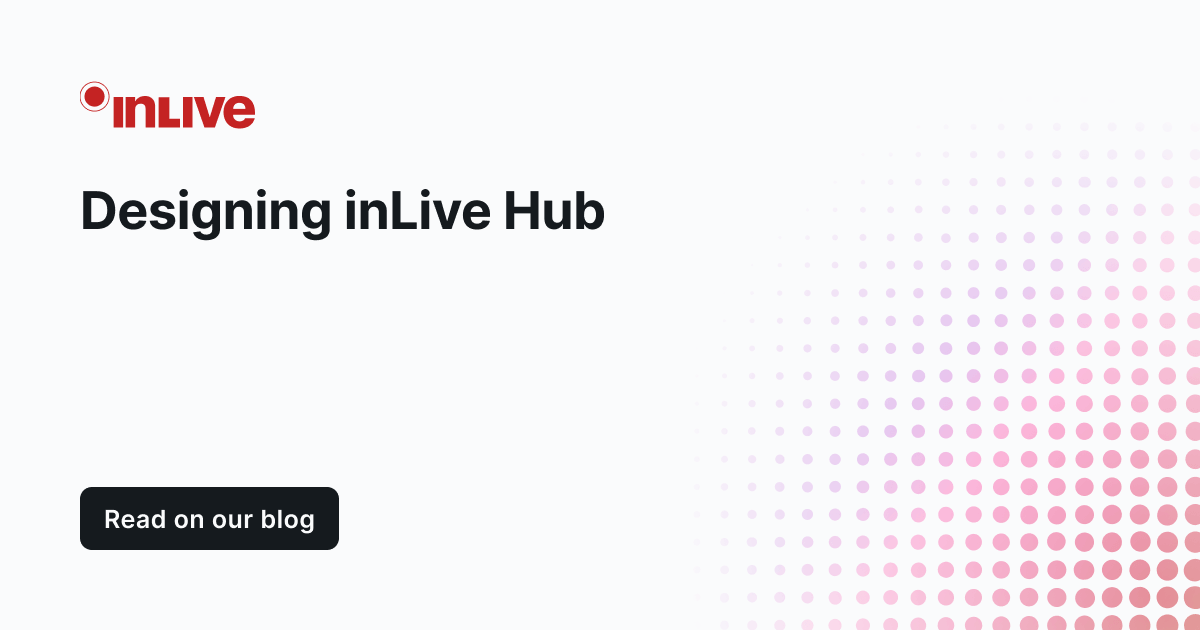
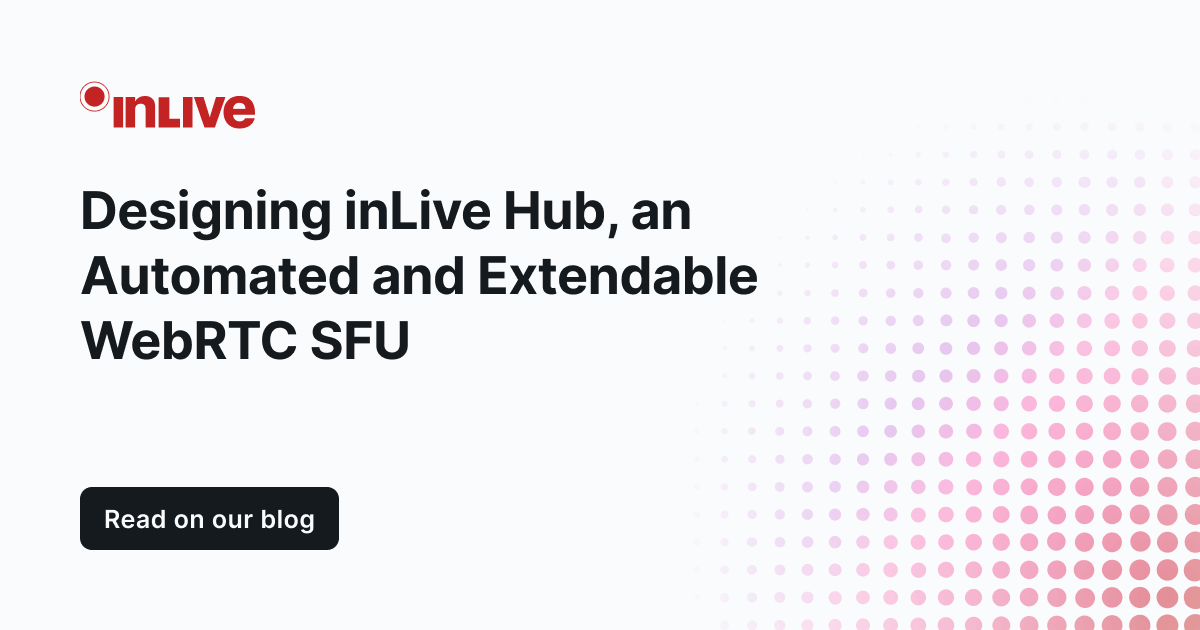
feat: add more og images (#216)
* fix: replace og image with newer version

* feat: add og image for the pages

* fix: make home and pricing using general og image

* feat: add og images for every displayed doc pages

diff --git a/content/docs/learn/playing-video/index.md b/content/docs/learn/playing-video/index.md
@@ -1,9 +1,10 @@
 ---
 date: 2022-06-07
 lastmod: 2022-06-07
-name: Playing Video with HLS and MPEG-DASH 
-title: Playing Video with HLS and MPEG-DASH 
+name: Playing Video with HLS and MPEG-DASH
+title: Playing Video with HLS and MPEG-DASH
 description: Inlive supports HLS and MPEG-DASH streaming protocol formats which offers 3 types adaptive bitrate qualities for playing video through a video player.
+ogimage: /images/docs/og-image.png
 slug: playing-video
 weight: 5003
 menu:
@@ -29,20 +30,20 @@ Therefore, which one is better for video players?
 Of course, both have good and bad points. Let’s break through it one by one.
 
 ### 1. Compatibility through devices
-HLS supports a wide range of devices, but MPEG-DASH is not supported only at iOS Safari browser which is a downside because it’s important for iOS Safari users. This MPEG-DASH compatibility problem because the [Media Source API](https://developer.mozilla.org/en-US/docs/Web/API/Media_Source_Extensions_API) is only enabled on Safari desktop and iPad, not in iOS. 
+HLS supports a wide range of devices, but MPEG-DASH is not supported only at iOS Safari browser which is a downside because it’s important for iOS Safari users. This MPEG-DASH compatibility problem because the [Media Source API](https://developer.mozilla.org/en-US/docs/Web/API/Media_Source_Extensions_API) is only enabled on Safari desktop and iPad, not in iOS.
 
 ### 2. Latency
 Although HLS supports widest compatibility for streaming, it is known to create a high latency stream previously. It is because HLS file (.m3u8) segments are usually much longer so each segment needs to be encoded at different bitrates. That is why it is commonly said that HLS prioritizes quality over low latency before Apple announced that HLS finally can support low latency streaming ([LL-HLS](https://developer.apple.com/documentation/http_live_streaming/enabling_low-latency_http_live_streaming_hls)) in 2019. Different from HLS, MPEG-DASH typically has lower latency as the file segments are much smaller so no need to encode them at different bitrates.
 
-In spite of HLS providing low latency streaming right now, currently our Inlive doesn’t support LL-HLS because we are using FFmpeg for encoding which can't be done through FFmpeg. Our Inlive’s HLS format is still using community version (.m3u8) instead of the Apple version (LL-HLS), while our Inlive’s MPEG-DASH format is already using [low latency DASH](https://dashif.org/news/low-latency-dash/), so the latency can reach up to 1-3 seconds only. Therefore, to achieve lower latency, you should always prioritize using Inlive MPEG-DASH format instead of HLS format. As mentioned earlier, since our Inlive API supports both formats, it is recommended to do capability testing (for example, using [window.MediaSource](https://github.com/shaka-project/shaka-player/issues/3037#issuecomment-742701187)) whether the Media Source is enabled, so it can support MPEG-DASH format on your video player. If Media Source API is disabled, then you can use the HLS format for your video player. 
+In spite of HLS providing low latency streaming right now, currently our Inlive doesn’t support LL-HLS because we are using FFmpeg for encoding which can't be done through FFmpeg. Our Inlive’s HLS format is still using community version (.m3u8) instead of the Apple version (LL-HLS), while our Inlive’s MPEG-DASH format is already using [low latency DASH](https://dashif.org/news/low-latency-dash/), so the latency can reach up to 1-3 seconds only. Therefore, to achieve lower latency, you should always prioritize using Inlive MPEG-DASH format instead of HLS format. As mentioned earlier, since our Inlive API supports both formats, it is recommended to do capability testing (for example, using [window.MediaSource](https://github.com/shaka-project/shaka-player/issues/3037#issuecomment-742701187)) whether the Media Source is enabled, so it can support MPEG-DASH format on your video player. If Media Source API is disabled, then you can use the HLS format for your video player.
 
 ### 3. Adaptive Video
 Both HLS and MPEG-DASH support adaptive bitrate feature so users can receive the best quality video based on what their internet connection can handle. Also, both HLS and MPEG-DASH support [HDR](https://www.haivision.com/blog/all/what-is-hdr-how-you-can-contribute-live-broadcast-content-in-hdr/) (High Dynamic Range) which deliver a wider color gamut and better tonal rendition. Currently, our Inlive’s MPEG-DASH and HLS are using same video codec which is H264 because it is the most supported codec on all platforms.
 
-As we know, [video bitrate](https://golightstream.com/what-is-video-bitrate/) affects the video quality. For now, Inlive provides adaptive video with 3 different qualities: 
+As we know, [video bitrate](https://golightstream.com/what-is-video-bitrate/) affects the video quality. For now, Inlive provides adaptive video with 3 different qualities:
 - 360 p with 800kb bitrate
 - 480p with 1350kb bitrate
-- 720p with 2500kb bitrate 
+- 720p with 2500kb bitrate
 
 With these 3 qualities, your video player can change the bitrate according to the network and device so the users don’t have to face buffering time while watching live streaming. To achieve adaptive bitrate qualities that are already supported on Inlive, you can use a video player that supports adaptive bitrate automation. In [our tutorial](/docs/tutorial/tutorial-app-with-webrtc/#6-get-the-video), we’re using Shaka Player because it handles video quality adjustment automatically. To learn more about utilizing these multiple bitrates and maximize its capability, you could read this [article](https://youtube-eng.googleblog.com/2018/04/making-high-quality-video-efficient.html) and also check out this [one](https://bloggeek.me/tweaking-webrtc-video-quality-unpacking-bitrate-resolution-and-frame-rates/) on how to tune webRTC video quality.
 

diff --git a/content/docs/learn/video-input/index.md b/content/docs/learn/video-input/index.md
@@ -4,6 +4,7 @@ lastmod: 2022-03-11
 name: Video Input
 title: Video Input
 description: Inlive supports 2 ways to sending the video source input to our encoder. You can use either WebRTC or RTMP.
+ogimage: /images/docs/og-image.png
 slug: video-input
 weight: 5002
 menu:
@@ -20,15 +21,15 @@ Inlive is support 2 ways to send the video source input to our encoder. You can 
 ## WebRTC
 WebRTC is a web standard protocol for video communication that is used by Google Meet. It's a UDP-based network transport by default which is known to reduce latency, but we still can make it work through TCP if needed. The better latency is the main reason why we focus on WebRTC input first instead of the RTMP that is already standard input in the live streaming app. Another reason is WebRTC can work everywhere including in the browser, something that RTMP can't do. With this, we can build a live streaming broadcaster app like OBS but on the web. No need to install anything.
 
-So if you want to build a live streaming app that can capture the camera on all platforms, not only in the mobile apps but also on the web, then WebRTC is your choice. Check out [our tutorial](/docs/tutorial/tutorial-app-with-webrtc/) on how to capture a camera on the web and send it as a video stream input. For mobiles, there are some tutorials and examples that you can use as well. 
+So if you want to build a live streaming app that can capture the camera on all platforms, not only in the mobile apps but also on the web, then WebRTC is your choice. Check out [our tutorial](/docs/tutorial/tutorial-app-with-webrtc/) on how to capture a camera on the web and send it as a video stream input. For mobiles, there are some tutorials and examples that you can use as well.
 
 
 ## RTMP
 RTMP is the most popular standard protocol for live streaming. It was used by Adobe Flash to stream the video from the server to a Flash player. But now RTMP is mostly known as a video input standard for YouTube, Twitch, and other live stream services. The main issue with RTMP is it's not supporting the web. So we can't build a broadcaster client on the web and use it as video stream input like WebRTC can do. And compared with WebRTC, RTMP is using TCP as their network transport. It's more reliable because TCP can guarantee all the network packets will be received by the server.
 
 ## Conclusion
-WebRTC and RTMP can be used as a video input protocol for our live stream, but which one you should use? It depends. The main difference between WebRTC and RTMP is the network transport protocol. WebRTC has better latency but can't guarantee reliability, which means you might have better latency but you probably will see some glitch in the video when the broadcaster host internet network is not that good. 
+WebRTC and RTMP can be used as a video input protocol for our live stream, but which one you should use? It depends. The main difference between WebRTC and RTMP is the network transport protocol. WebRTC has better latency but can't guarantee reliability, which means you might have better latency but you probably will see some glitch in the video when the broadcaster host internet network is not that good.
 
-If you're hosting a live stream that doesn't need interactivity, like a live concert, sports event, or any one-way broadcasting where the quality of the video is important and that broadcast usually can be seen on TV as well, then you probably want to use RTMP because it will have a better video quality of the live stream. But if you're hosting an interactive live stream, like a live shopping, trivia quiz, online bidding, or any live stream where the low latency is a must, then WebRTC will be a good option. 
+If you're hosting a live stream that doesn't need interactivity, like a live concert, sports event, or any one-way broadcasting where the quality of the video is important and that broadcast usually can be seen on TV as well, then you probably want to use RTMP because it will have a better video quality of the live stream. But if you're hosting an interactive live stream, like a live shopping, trivia quiz, online bidding, or any live stream where the low latency is a must, then WebRTC will be a good option.
 
 Another consideration is the platform support, if you're thinking to have a broadcaster feature on all platforms including the web, then WebRTC is the only way. RTMP can't be used on a browser, only on native mobile platforms like Android and iOS. Let us know if you still need more insights on which video input to choose.

diff --git a/content/docs/tutorial/app-with-whip/index.md b/content/docs/tutorial/app-with-whip/index.md
@@ -4,6 +4,7 @@ lastmod: 2023-05-26
 name: Tutorial with WHIP
 title: Tutorial building a live stream app with WHIP standard
 description: This tutorial will show you how to build a live video stream web app using WHIP standard.
+ogimage: /images/docs/og-image.png
 slug: tutorial-app-with-whip
 weight: 4003
 menu:
@@ -31,7 +32,7 @@ Before starting, you need to prepare the following things:
    * [gst-plugins-rs](https://gitlab.freedesktop.org/gstreamer/gst-plugins-rs) (Gstreamer plugins, written in Rust)
    * [Larix Broadcaster](https://softvelum.com/larix/)  (free apps for iOS and Android with WebRTC based on Pion, SDK available)
 
-    For this tutorial we will be using [medooze/whip-whep-js](https://github.com/medooze/whip-whep-js) 
+    For this tutorial we will be using [medooze/whip-whep-js](https://github.com/medooze/whip-whep-js)
 3. Understand the flow of doing a live streaming with inLive which are:
    1. Create a live stream
    2. Prepare the live stream
@@ -76,7 +77,7 @@ Then in the `app.js` file, we will import the WHIP JS library. Put the following
 import { WHIPClient } from "./whip.js"
 ```
 
-## Get the API key from inLive Dashboard 
+## Get the API key from inLive Dashboard
 Before we start writing the JavaScript function. We need the API key that you can get from inLive Dashboard. Put the API key as global variable in `app.js`. We also put the `API_ORIGIN` variable to make it easier to change the API origin in the future. Put the following code in `app.js`:
 ````js
 const API_KEY = '<api-key-here>'
@@ -155,7 +156,7 @@ async function startStream(stream, mediaStream){
 ```
 
 ## Handle on load page and button click
-Last, we are wired everything into a load event that will be triggered when the page is loaded. The page will load the media stream from camera and microphone when page loaded, and we will go live when the button is clicked. 
+Last, we are wired everything into a load event that will be triggered when the page is loaded. The page will load the media stream from camera and microphone when page loaded, and we will go live when the button is clicked.
 
 When the button is clicked and we succesfully go live, we will get the Dash and HLS manifest. We will create a link to watch the live stream with the manifest and open it in a new tab.
 
@@ -170,7 +171,7 @@ document.addEventListener('DOMContentLoaded', async () => {
     const video = document.getElementById('video')
     video.srcObject = mediaStream
     const button = document.querySelector('button')
-    
+
     button.addEventListener('click', async () => {
         const stream = await createStream()
         await WHIP(stream, mediaStream)
@@ -189,4 +190,3 @@ Now we have everything we need. We just need to open the web app, allow the brow
 
 ## Conclusion
 We put together the example code above in our [Github repository](https://github.com/inlivedev/inlivedev.github.io/tree/main/examples/whip-webrtc-dash-hls). You can clone the repository and run the app in your local machine.
-

diff --git a/content/docs/getting-started/index.md b/content/docs/getting-started/index.md
@@ -4,6 +4,7 @@ lastmod: 2022-03-08
 name: Getting Started
 title: Getting Started
 description: To start developing with Inlive, you will need three simple steps to integrate inlive with your app.
+ogimage: /images/docs/og-image.png
 slug: getting-started
 weight: 2000
 menu:
@@ -87,7 +88,7 @@ const request = await fetch('https://api.inlive.app/v1/streams',{
 const streams = await request.json();
 ```
 
-Check [other endpoints](https://api.inlive.app/apidocs) to know the HTTP method, body, or URL parameters used to make different API requests. 
+Check [other endpoints](https://api.inlive.app/apidocs) to know the HTTP method, body, or URL parameters used to make different API requests.
 
 With our SDK, you only need to pass the application key to `InliveApp.init()` like this:
 

diff --git a/content/docs/learn/RTMP-vs-webRTC/index.md b/content/docs/learn/RTMP-vs-webRTC/index.md
@@ -4,6 +4,7 @@ lastmod: 2022-05-31
 name: Choosing RTMP vs WebRTC
 title: Choosing RTMP vs WebRTC
 description: Inlive uses WebRTC which supports video ingestion on all platforms including web, has better latency than RTMP, and can be used to build your own OBS client.
+ogimage: /images/docs/og-image.png
 slug: rtmp-vs-webrtc
 weight: 5001
 menu:

diff --git a/content/docs/tutorial/app-with-sdk/index.md b/content/docs/tutorial/app-with-sdk/index.md
@@ -4,6 +4,7 @@ lastmod: 2022-09-06
 name: Tutorial with inLive JS SDK
 title: Tutorial building a live stream app with inLive JS SDK
 description: This tutorial will show you how to build a live video stream web app using inLive JS SDK.
+ogimage: /images/docs/og-image.png
 slug: tutorial-app-with-inlive-js-sdk
 weight: 4002
 menu:

diff --git a/content/docs/tutorial/app-with-webrtc/index.md b/content/docs/tutorial/app-with-webrtc/index.md
@@ -4,6 +4,7 @@ lastmod: 2022-09-06
 name: Tutorial with WebRTC
 title: Tutorial building a live stream app with WebRTC
 description: This tutorial will show you how to build a live video stream web app with WebRTC video source input.
+ogimage: /images/docs/og-image.png
 slug: tutorial-app-with-webrtc
 weight: 4001
 menu:

diff --git a/content/_index.md b/content/_index.md
@@ -2,4 +2,5 @@
 date: 2022-02-22
 title: WebRTC to Dash/HLS live streaming API with 54% less cost
 description: Develop your live streaming application with inLive API. Affordable solution to start streaming and save up to 54% of your cost with bandwidth usage pricing.
+ogimage: /images/general/og-image.png
 ---

diff --git a/content/docs/introduction/index.md b/content/docs/introduction/index.md
@@ -4,6 +4,7 @@ lastmod: 2022-03-08
 name: Introduction
 title: Introduction
 description: Inlive is an infrastructure as a service that allows a developer to develop a live video capability in their web or app.
+ogimage: /images/docs/og-image.png
 slug: introduction
 weight: 1000
 menu:

diff --git a/content/realtime-interactive/index.md b/content/realtime-interactive/index.md
@@ -2,4 +2,5 @@
 title : "Real-time interactive API for video, audio, and data"
 description: "Automate your video, audio, and data interaction with our real-time API"
 layout: "realtime-interactive"
+ogimage: /images/realtime-interactive/og-image.png
 ---

diff --git a/content/docs/learn/_index.md b/content/docs/learn/_index.md
@@ -4,6 +4,7 @@ lastmod: 2022-06-02
 name: Learn
 title: Learn
 description: List of supporting articles related to our Inlive that we created for you
+ogimage: /images/docs/og-image.png
 slug: learn
 weight: 5000
 menu:

diff --git a/content/docs/tutorial/_index.md b/content/docs/tutorial/_index.md
@@ -4,6 +4,7 @@ lastmod: 2022-03-11
 name: Tutorial
 title: Tutorial
 description: List of tutorials that we created for you
+ogimage: /images/docs/og-image.png
 slug: tutorial
 weight: 4000
 menu:
